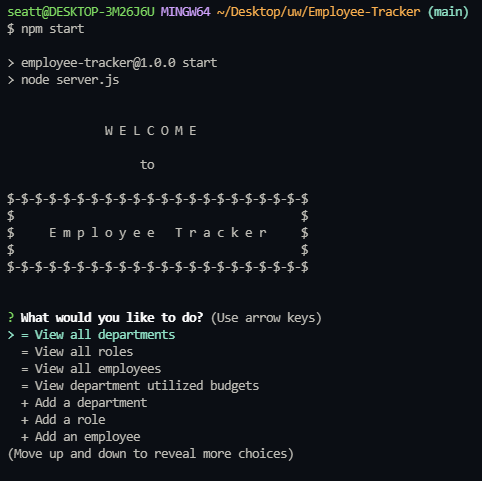
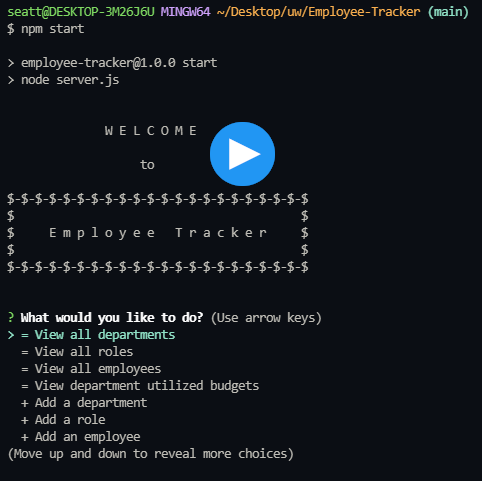
README completed

Changed region(s): [[0.4357, 0.2495, 0.5913, 0.4054]]

diff --git a/README.md b/README.md
@@ -41,6 +41,16 @@ WHEN I choose to update an employee role
 THEN I am prompted to select an employee to update and their new role and this information is updated in the database
 ```
 
+## Satisfied Technical Acceptance Criteria
+
+- Uses the [Inquirer package](https://www.npmjs.com/package/inquirer).
+
+- Uses the [MySQL2 package](https://www.npmjs.com/package/mysql2) to connect to a MySQL database.
+
+- Uses the [console.table package](https://www.npmjs.com/package/console.table) to print MySQL rows to the console.
+
+- Follows the 'Database Schema' outlined below.
+
 ## Database Schema:
 
 Schema contains the following three tables:
@@ -80,107 +90,21 @@ Schema contains the following three tables:
 Start a new Terminal from the project's root folder & run the following:
 
 ```
-$ mysql -u root -h localhost employee_db -p
+$ mysql -u root -h localhost -p
 mysql> source db/schema.sql
 mysql> source db/seeds.sql
 ```
 
 ![the office, season](./images/officeCharacters.png)
 
-## Screenshot Running Application
+## Video Setting up & Running Application
 
-![Screenshot running the program](./images/screenshot.png)
+The following video shows the application database being created, seeded, then application invoked from the command line:
 
-The following video shows an example of the application being used from the command line:
-
-[![A video thumbnail shows the command-line employee management application with a play button overlaying the view.](./Assets/12-sql-homework-video-thumbnail.png)](https://2u-20.wistia.com/medias/2lnle7xnpk)
-
-## Because this application is not deployed
-
-There is a walk-through video that demonstrates it's functionality and all of the following acceptance criteria being met.
+[![A video thumbnail shows the command-line employee management application with a play button overlaying the view.](./images/screenshot.png)](https://watch.screencastify.com/v/GV81cwvNd59shHGbHw7P)
 
 ## Bonus
 
-Try to add some additional functionality to your application, such as the ability to do the following:
-
-- Update employee managers.
-
-- View employees by manager.
-
-- View employees by department.
-
-- Delete departments, roles, and employees.
+Additional functionality:
 
 - View the total utilized budget of a department&mdash;in other words, the combined salaries of all employees in that department.
-
-## Grading Requirements
-
-This homework is graded based on the following criteria:
-
-### Deliverables: 10%
-
-- Your GitHub repository containing your application code.
-
-### Walkthrough Video: 27%
-
-- A walkthrough video that demonstrates the functionality of the employee tracker must be submitted, and a link to the video should be included in your README file.
-
-- The walkthrough video must show all of the technical acceptance criteria being met.
-
-- The walkthrough video must demonstrate how a user would invoke the application from the command line.
-
-- The walkthrough video must demonstrate a functional menu with the options outlined in the acceptance criteria.
-
-### Technical Acceptance Criteria: 40%
-
-- Satisfies all of the preceding acceptance criteria plus the following:
-
-  - Uses the [Inquirer package](https://www.npmjs.com/package/inquirer).
-
-  - Uses the [MySQL2 package](https://www.npmjs.com/package/mysql2) to connect to a MySQL database.
-
-  - Uses the [console.table package](https://www.npmjs.com/package/console.table) to print MySQL rows to the console.
-
-- Follows the table schema outlined in the homework instructions.
-
-### Repository Quality: 13%
-
-- Repository has a unique name.
-
-- Repository follows best practices for file structure and naming conventions.
-
-- Repository follows best practices for class/id naming conventions, indentation, quality comments, etc.
-
-- Repository contains multiple descriptive commit messages.
-
-- Repository contains a high-quality README with description and a link to a walkthrough video.
-
-### Application Quality 10%
-
-- The application user experience is intuitive and easy to navigate.
-
-### Bonus
-
-Fulfilling any of the following can add up to 20 points to your grade. Note that the highest grade you can achieve is still 100:
-
-- Application allows users to update employee managers (2 points).
-
-- Application allows users to view employees by manager (2 points).
-
-- Application allows users to view employees by department (2 points).
-
-- Application allows users to delete departments, roles, and employees (2 points for each).
-
-- Application allows users to view the total utilized budget of a department&mdash;in other words, the combined salaries of all employees in that department (8 points).
-
-## Review
-
-You are required to submit BOTH of the following for review:
-
-- A walkthrough video demonstrating the functionality of the application.
-
-- The URL of the GitHub repository, with a unique name and a README describing the project.
-
----
-
-© 2021 Trilogy Education Services, LLC, a 2U, Inc. brand. Confidential and Proprietary. All Rights Reserved.
